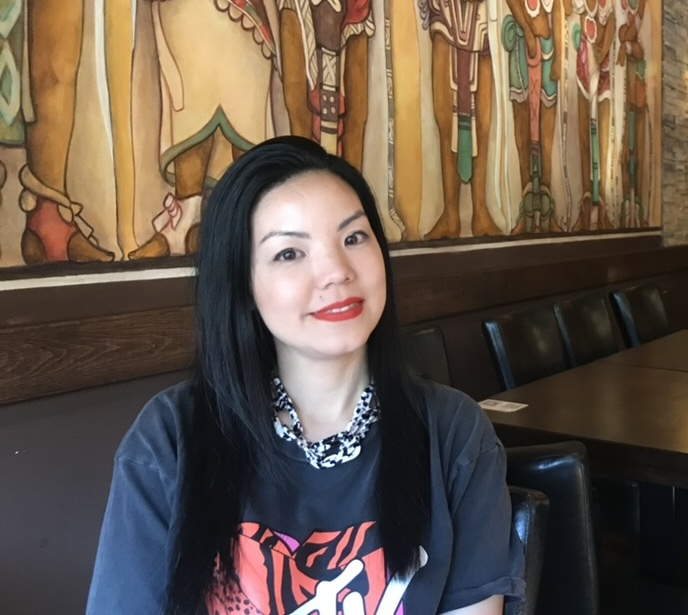
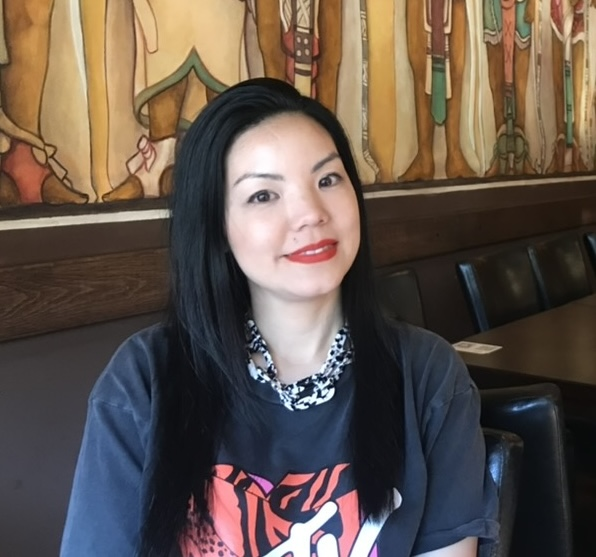
changed profile pic format to webp

diff --git a/src/assets/index.js b/src/assets/index.js
@@ -1,5 +1,5 @@
 import diamond_logo from "./my-logo/diamond_logo.svg";
-import profilePic from "./profile-pic.jpeg";
+import profilePic from "./profile-pic.webp";
 import RPAicon from "./skill-cards-icons/RPAicon.png";
 import pingicon from "./skill-cards-icons/pingicon.png";
 import FEdevicon from "./skill-cards-icons/FEdevicon.png";
